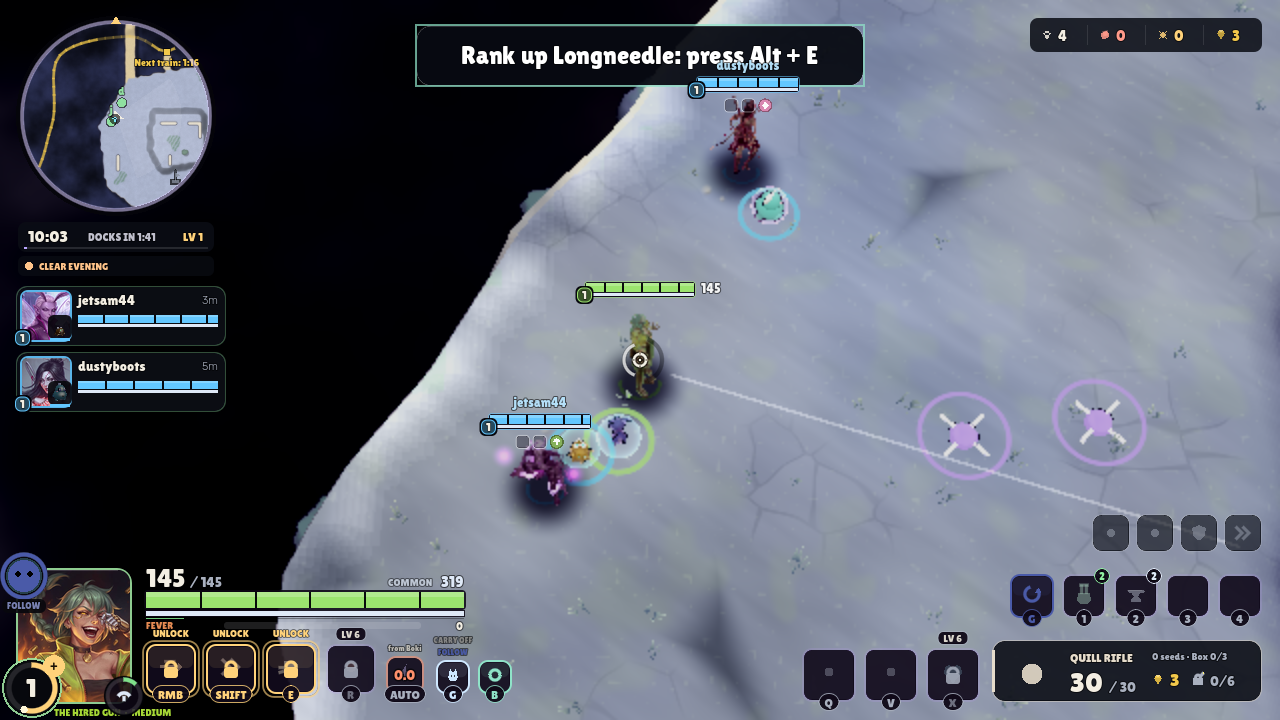
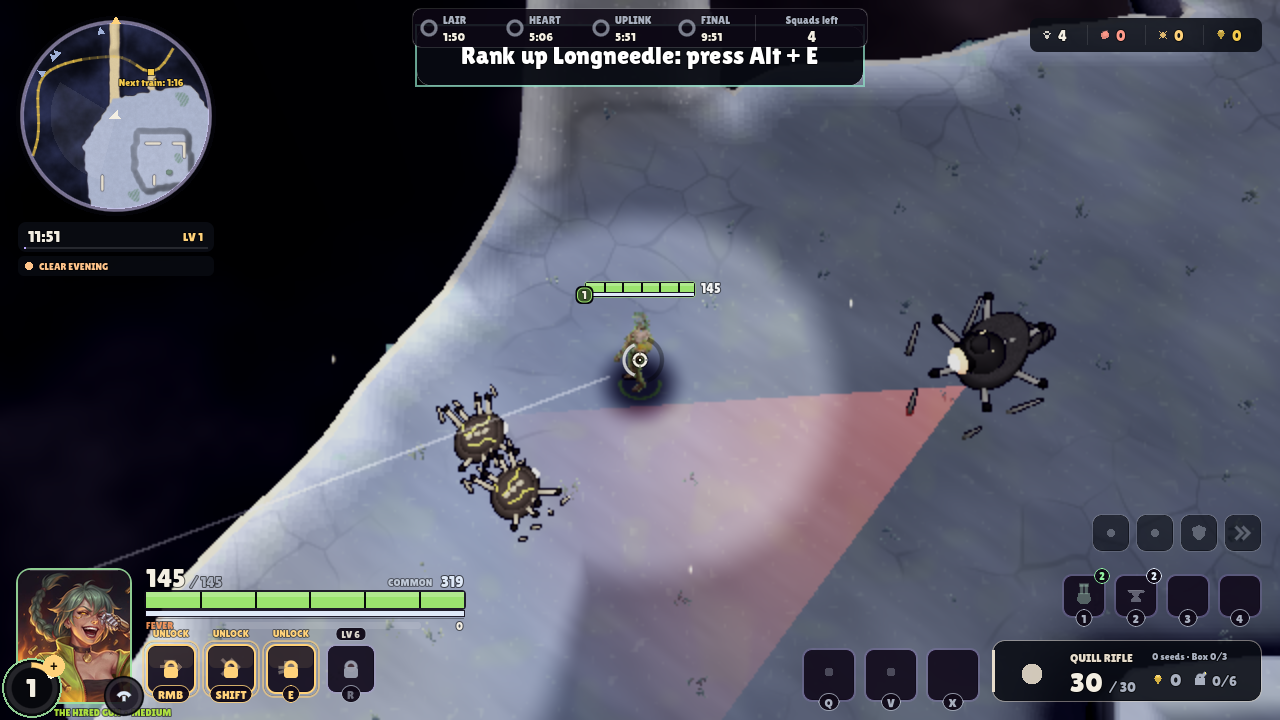
Clarity docs: CLARITY_PASS on 0.24.5 (new rows, no scouting, biome air), DEBT, wiki, shots
Shots: --blight-demo --seed=7 at 9 s, xvfb + opengl3, LP_NUM_THREADS=2; before is
2723685892 (0.24.5 integ), after this branch.

diff --git a/docs/design/CLARITY_PASS.md b/docs/design/CLARITY_PASS.md
@@ -2,8 +2,8 @@
 
 Owner rule (briefs/DECISIONS.md, "CORE SERIES PRINCIPLES" #1): Supervive-level readability. No random
 enemies; every enemy/camp/boss spawns at a fixed, learnable place on a predictable timer, telegraphed
-before it appears; VFX that carry no gameplay info get cut. Line numbers below are `origin/main` before
-this pass.
+before it appears; VFX that carry no gameplay info get cut. Line numbers below are `origin/main` (0.24.4)
+before this pass; the 0.24.5 rows are ext/release-integ-0245 2723685892.
 
 ## 1. Spawn audit (Expeditions; the farm and its tutorial spawn no hostiles)
 
@@ -25,29 +25,43 @@ this pass.
 | Dock/uplink waves | exits.gd:727, 748 | kind, spot (timer and toast already existed) | golden-angle slots, kind by wave |
 | Hazards (generated maps) | biome_run.gd:380, 399, 492-560 | spot, first strike, interval | map-seeded spot, fixed 6.5 s round; hand maps already authored |
 | Lightning strike target | biome_run.gd:475 | +-3 tiles | fixed round of six marks (ring already shown 1.2 s) |
-| Tutorial refill foe | tutorial.gd:340 | angle | fixed angle |
+| Tutorial camp (0.24.5) | tutorial_camps.gd:80 | angle round the player | `CAMP_ANGLE` |
+| Sealed Lair quest seat (0.24.5) | quest_seats.gd:42 | which lair, by match seed | by the map (`SpawnTable.map_key`) |
+| Glimmerkin | match.gd:4866 | island and cell | `SpawnTable.glimmer_spot` (map-fixed), **8 s ring + countdown** first |
+| The Watcher (centre island) | match.gd:4772 | (fixed spot and time) | **8 s ring + countdown** before it wakes |
 
 Not spawns, left alone: Mob/Blight wander and cooldown jitter (mob.gd:43-197, blight.gd:50-277), boss
 attack picks (telegraphed), lair puzzle needle (lairs.gd:90, 381), rarity/mutation/loot dice (the
 COMMON/RARE/VERY RARE tiers; they change what a spawn drops or carries, not where or when), the match
-weather (RaidLook.pick; chosen per match and shown in the lobby, it only scales sight and Blight level).
+weather (RaidLook.pick; chosen per match and shown in the lobby, it only scales sight and Blight level),
+meteor strikes (each lands near a random hunter after a 1.5 s ring), the Heart's site on generated maps
+and its Gate angle (match seed; heart.gd belongs to the Heart Raid lane, docs/DEBT.md).
 
 **Spawn table.** `content/rules/spawn_tables.json` (camp lists, wild stride, burrow timing by danger tier)
 and `scripts/match/spawn_table.gd`. `SpawnTable.rows` is the per-map table: `{id, what, pos, n, first,
 every}`, built from the map's islands with a map-only seed (same map, same rows, any match seed); the
 schedule is a pure function of the session clock (`due_at`, `schedule`). A row inside its last 6 s shows
 a ring on the ground and a counting ring on minimap and full map (`SpawnMarks`). A nest with no hunter
-within 70 tiles skips its turn. Skyreach has 7 nests (first turn 80-146 s, every 90-150 s by danger tier). Noise no longer spawns anything; it only sends the Blight already out
-to look.
+within 70 tiles skips its turn; a nest that is overdue (a late join to a rolling session) fires only the
+turn due now, never the backlog. Skyreach has 7 nests (first turn 80-146 s, every 90-150 s by danger
+tier): 56 turns in 15 min (a nest with nobody near skips its turn; the old heat trickle was never counted,
+so density is judged by the timings above, not measured against it).
+Noise no longer spawns anything; it only sends the Blight already out to look (so the Heart's
+`tide_heat`, which fed that heat, is gone; the tide still raises the Blight's strength).
+
+**No scouting.** The spots never move, so the full map shows every candidate as it is from the start
+(live, empty cross, taken tick) for everyone; SpawnPlan's reveal-by-sight, the "?" marker and the
+"spotted" toast are gone. The minimap shows live spawns while the map key is held (MapDetail).
 
 **Heart Raid wave director must follow the same rule**: waves are rows (`first`, `every`, place,
 what), the next wave's ring and countdown shows on the minimap before it appears, composition is a list
 walked in order (no `randf`/`randi`), positions are authored points or `SpawnTable.ring_spot`. Reuse
-`SpawnTable.show/hide/warning` for the telegraph. Any rarity dice stay seed-independent for *where* and
+`SpawnTable.mark/unmark/warning` for the telegraph. Any rarity dice stay seed-independent for *where* and
 *when*.
 
-Check: `--spawn-table-check` (two seeds, same monsters/Boki/live spawns/schedule; a nest's ring and
-countdown, then its pack on time at its place; a rolling camp's ring before it returns).
+Check: `--spawn-table-check` (two seeds, same monsters/Boki/live spawns/schedule/Glimmerkin spot; a nest's
+ring and countdown, then its pack on time at its place; the Glimmerkin's and Watcher's lead-in rings; a
+rolling camp's ring before it returns).
 
 ## 2. Visual noise around characters, worst first
 
@@ -59,10 +73,12 @@ something (a telegraph, a CC, a hit, a pickup). Ranked from code; before/after o
    and they sit on every Boki outline in a crowd. **Cut**: only a rare Boki shows them (`kin.gd:1086`).
 2. **Ash-storm streaks** (`raid_look.gd:271`: 340 particles streaming over the whole view). The sight
    penalty already carries the info. **Toned**: 150 (70 in lite).
-3. Wisp trails (`boki_wisp_look.gd:216`, 24 sparkles per wisp): left, filed below.
+3. **Biome air** (`biome_run.gd:592`: 20-70 snow/spark/ember/spore specks per island, in a box up to
+   2.5 m over the ground, so round every body). Region already reads from the ground tint and banner.
+   **Toned**: 10-35 per island (`AIR_PER_TILE`).
 4. Kin species aura shell and team rings: kept (team colour, squad Boki through walls = info).
 5. Hit sparks, telegraphs, CC reads, shiny sparkle: kept (info).
 
-Left (not cut here, see `docs/DEBT.md`): wisp trails, glider trails, hero-kit hold motes (`hero_vfx.gd`
-~383-650), ground clutter and sky deco, the reveal-by-scouting "?" markers of SpawnPlan (spawns are now
-fixed, so they could simply be shown).
+(Boki wisp trails are only in the gallery prototype, not in matches.) Left (not cut here, see
+`docs/DEBT.md`): glider trails, hero-kit hold motes (`hero_vfx.gd`
+~383-650), ground clutter and sky deco.

diff --git a/docs/wiki/Rules.md b/docs/wiki/Rules.md
@@ -1094,8 +1094,6 @@ Glint Fishing (briefs/design/GARDEN_MODERN.md 4.2 game 4; scripts/home/glint_fis
 | _tide_src_hp | the source's base health for a medium Hunter: the curve is scaled by our medium health over this, so a stage takes as long to kill as there |
 | tide_tick_s | 1 |
 | _tide_tick_s | seconds between tide hits (the source gives a per-stage value and no rate: read as per second) |
-| tide_heat | 0.06 |
-| _tide_heat | extra Skitter spawn heat per second for a squad outside the ring: the Blight comes for squads that stay away |
 | map | {"_doc": "where the seats sit (spec section 8): metres on the 216 m design; a map's \"ways_scale\" (1.412 on the 305 m Hollow Crown) stretches these, the tide radii and gate_dist, never times. tools/ways_out_sites.py (the generators) and --ways-out-map-check enforce them", "seat_window_s": 150.0, "_seat_window_s": "a quest seat's site stays inside the tide ring this long after it opens (and lies outside the final ring)", "uplink_band": [42.0, 50.0], "_uplink_band": "the two uplink outposts stand this far from the Heart", "uplink_apart_deg": 90.0, "_uplink_apart_deg": "degrees round the Heart between the two outposts (opposite sides; exactly opposite is impossible with gate_clear)", "gate_clear": 60.0, "_gate_clear": "the seeded Heart Gate keeps this far from every uplink outpost", "gate_arc_min_deg": 30.0, "_gate_arc_min_deg": "whole degrees of Gate angle that must be on ground and gate_clear from both outposts"} |
 | reward | {"_doc": "paid to each Hunter who leaves by a Heart seat: minor = the early seat (Heart Gate), major = the final seat (Heart ring). Major is about 5x minor", "minor": {"egg": false, "seeds": {"emberberry": 1, "sunroot": 1, "mindmint": 1, "tidebloom": 1}, "goods": {"heartwood": 1}, "gems": 40, "trust": 6.0}, "major": {"egg": true, "seeds": {"emberberry": 3, "sunroot": 3, "mindmint": 3, "tidebloom": 3}, "goods": {"heartwood": 2, "starstone": 2}, "gems": 150, "trust": 20.0}} |
 | quest | {"_doc": "the two quest seats (spec task 4, Exits/lairs.gd): one squad each, used once", "lair_open_s": 120.0, "lair_shut_s": 330.0, "lair_fight_max_s": 90.0, "_lair_fight_max_s": "a fight already sealed in when the Lair shuts may run this long", "uplink_open_s": 360.0, "uplink_shut_s": 480.0, "uplink_hold_s": 40.0, "_uplink_hold_s": "one Hunter alone; Exits.UPLINK_CREW scales it for two and three", "uplink_steal_s": 5.0, "uplink_lift_s": 15.0, "warn_before_shut_s": 30.0} |
@@ -1432,6 +1430,17 @@ Snacks for the nine types that had none (GARDEN_MODERN 8; Sound is chimebun in C
 | joy | 8 |
 | price | 16 |
 | foods | {"frostdrop": {"name": "Frost drop", "type": "ice", "desc": "A drop of cold that stays cold."}, "pebblenut": {"name": "Pebble nut", "type": "rock", "desc": "Hard shell, sweet middle."}, "scalepepper": {"name": "Scale pepper", "type": "dragon", "desc": "Hot enough to make a Boki roar."}, "duskplum": {"name": "Dusk plum", "type": "dark", "desc": "Ripens after the sun is gone."}, "pricklepear": {"name": "Prickle pear", "type": "poison", "desc": "Sharp outside, tangy in."}, "sapjelly": {"name": "Sap jelly", "type": "bug", "desc": "Sticky, sweet, buzzing."}, "ironcrisp": {"name": "Iron crisp", "type": "steel", "desc": "Snaps loud and shines."}, "geodecandy": {"name": "Geode candy", "type": "crystal", "desc": "Sparkles when it cracks."}} |
+
+## spawn_tables (`content/rules/spawn_tables.json`)
+
+
+
+| Setting | Value |
+|---|---|
+| _doc | Fixed spawns (docs/design/CLARITY_PASS.md). Nothing here is rolled: same map, same schedule. Times are session seconds. |
+| camp_comps | {"heavy": [["brute", "spitter", "skitter", "sentinel"]], "light": [["skitter", "skitter"], ["spitter", "skitter"], ["bomber", "skitter"]], "normal": [["brute", "skitter", "bomber"], ["skitter", "bomber", "spitter"], ["sentinel", "skitter", "skitter"], ["spitter", "skitter", "bomber"]]} |
+| wild_every | 4 |
+| burrow | {"what": "bl_skitter", "skip_roles": ["landing", "perch"], "tele": 6.0, "radius": 1.8, "awake_range": 70.0, "stagger": 11.0, "by_danger": [{"first": 150.0, "every": 150.0, "n": 1}, {"first": 110.0, "every": 120.0, "n": 1}, {"first": 80.0, "every": 90.0, "n": 2}]} |
 
 ## toys (`content/rules/toys.json`)
 

diff --git a/docs/DEBT.md b/docs/DEBT.md
@@ -70,4 +70,5 @@ Each line: the debt, why it matters, and the fix. Remove the line when it's fixe
 - 0.24.5 gate NEW-REDs left, garden: carry-boki (a led Boki trails 3.2-3.5 m, bar 3.0), minigame-hub (the picker opens empty on the base), raising (arrival rank gets a moment), unmasked (feet 2.8 cm off on one custom body, EmptyGait). Fix: garden lane.
 - Evolution vs GARDEN pace: evolve.json (0.24.4) levels 14-40 with an art gate; only zipling -> caecilith and mothlet -> wisplet have art, so no launch species level-evolves and lean-check's "form grows the Fire part" fails. GARDEN.md assumes a first form at Lv 4. Fix: owner decision on the form levels, then art or rules.
 - Albert (breaker) appeal swap: hammer 0.66 of his height vs the sheet's 0.79 (warden-clips-check). Fix: art lane rescales the hammer prop.
-- Clarity pass leftovers (docs/design/CLARITY_PASS.md): Boki wisp trails (boki_wisp_look.gd, 24 sparkles each), glider trails, hero-kit hold motes (hero_vfx.gd), ground clutter/sky deco still add noise round characters; SpawnPlan still reveals rare kin and caches by scouting ("?") though their spawns are now fixed (show them from the start and drop the reveal code); wild/rare Boki live spots and vault/cache picks are fixed but not yet on timers (no respawn rows, only burrow nests and rolling camp returns); the unused authored rare-kin points beyond `pick` never go live.
+- Clarity pass leftovers (docs/design/CLARITY_PASS.md): glider trails, hero-kit hold motes (hero_vfx.gd), ground clutter and sky deco still add noise round characters (not measured: needs a GPU before/after per cut). Wild and rare Boki, vaults and caches stand at fixed spots but have no respawn rows (they never respawned; only Skitter nests and rolling camp returns are timed). The Heart's site on a generated map and its Gate angle still follow the match seed (heart_check asserts it; the Heart Raid lane owns heart.gd). Meteor strikes still land near a random hunter (1.5 s ring each). Owner: combat/VFX lane.
+- Rolling sessions and the Heart tide: the tide runs on the session clock (Heart.tide_stage), so in a rolling session joined a few waves in it has closed on the whole map and a new wave is knocked out of the air before it lands. rolling-check's session runs with `no_heart` until this is decided. Fix (owner call): no Heart in rolling sessions, or a tide on each wave's own clock.
